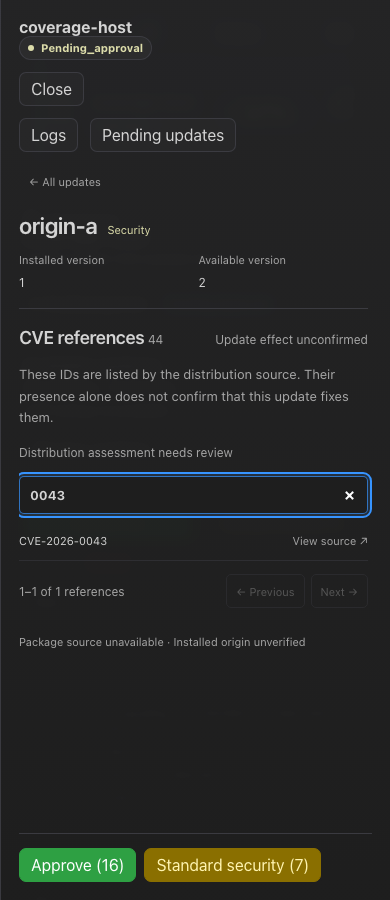
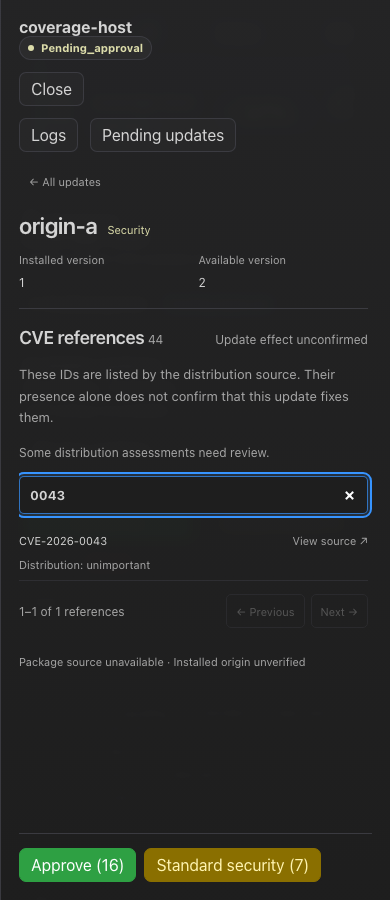
Keep mixed CVE qualifications concise and preserve live scroll

diff --git a/static/js/pending-updates-view.js b/static/js/pending-updates-view.js
@@ -52,6 +52,7 @@
         const url = String(finding.advisory_url || '').trim();
         return `<section class="pending-cve-evidence" id="pending-cve-evidence" aria-label="CVE source evidence">
             <div class="pending-workspace-head"><h5>${escape(finding.id || 'Unknown CVE')}</h5>${button('evidence', finding.id, 'Close source')}</div>
+            <p>${escape(qualification(finding))}</p>
             <p>${escape(assessment.vendor_reason || 'Distribution assessment unavailable')}</p>
             <dl><div><dt>Assessed versions</dt><dd>${escape(finding.installed_version || "Unknown")} → ${escape(finding.candidate_version || "Unknown")}</dd></div><div><dt>Source</dt><dd>${escape(assessment.ecosystem || 'Unknown distribution')} / ${escape(assessment.source_package || finding.source_package || 'Unknown package')} · ${escape(finding.source || 'Distribution data')}</dd></div>
             <div><dt>Observed</dt><dd>${escape(assessment.observed_at || 'Unknown')}</dd></div></dl>
@@ -62,6 +63,9 @@
         const findings = view.allFindings;
         const groups = [...new Set(findings.map(disposition))];
         const qualifications = [...new Set(findings.map(qualification))];
+        const reviewQualification = 'Distribution assessment needs review';
+        const sharedQualification = qualifications.length === 1 ? qualifications[0]
+            : qualifications.includes(reviewQualification) ? 'Some distribution assessments need review.' : '';
         const unknown = groups.length === 1 && groups[0] === 'Correction could not be verified';
         const state = String(update.cve_state || 'unknown');
         const context = state === 'pending' ? 'CVE lookup in progress.' : state === 'unavailable' ? 'CVE lookup unavailable. Run a fresh update check to retry.'
@@ -74,14 +78,14 @@
         return `${button('back', view.selectedKey, '← All updates')}
             <div class="pending-package-heading"><h4 tabindex="-1" data-pending-heading>${escape(update.package || 'Unknown package')}</h4><div class="pending-kinds">${badges(update)}</div></div>
             <dl class="pending-version-pair"><div><dt>Installed version</dt><dd>${escape(update.current_version || 'Unknown')}</dd></div><div><dt>Available version</dt><dd>${escape(update.candidate_version || 'Unknown')}</dd></div></dl>
-            <div class="pending-workspace-head"><h4>CVE references <span>${findings.length}</span></h4>${findings.length ? `<span>${unknown ? 'Update effect unconfirmed' : 'Source comparison'}</span>` : ''}</div>
+            <div class="pending-workspace-head"><h4>${findings.length ? `CVE references <span>${findings.length}</span>` : 'CVE information'}</h4>${findings.length ? `<span>${unknown ? 'Update effect unconfirmed' : 'Source comparison'}</span>` : ''}</div>
             <p class="${state === 'unavailable' ? 'pending-lookup-error' : 'pending-note'}">${context}</p>
-            ${qualifications.length === 1 ? `<p class="pending-qualification">${escape(qualifications[0])}</p>` : ''}
+            ${sharedQualification ? `<p class="pending-qualification">${escape(sharedQualification)}</p>` : ''}
             ${findings.length ? `${search('pending-cve-search', 'Find a CVE', view.cveQuery, 'cve-search')}<div class="pending-cve-list">
                 ${view.findings.items.map(finding => `<div class="pending-cve-item ${finding.disposition === 'still_affected' ? 'pending-cve-reported' : ''}">
                     ${button('evidence', finding.id, `<span>${escape(finding.id || 'Unknown CVE')}</span><span>View source ↗</span>`, `aria-expanded="${view.evidenceID === String(finding.id || '')}" ${view.evidenceID === String(finding.id || '') ? 'aria-controls="pending-cve-evidence"' : ''}`)}
                     ${!unknown ? `<small>${escape(disposition(finding))}</small>` : ''}
-                    ${qualifications.length !== 1 ? `<small>${escape(qualification(finding))}</small>` : ''}</div>`).join('')}</div>
+                    ${qualifications.length !== 1 && qualification(finding) !== reviewQualification ? `<small>${escape(qualification(finding))}</small>` : ''}</div>`).join('')}</div>
                 ${!view.findings.total ? '<p class="drawer-empty">No matching CVE references.</p>' : ''}${pagination(view.findings, 'cve-page', 'References')}` : ''}
             ${view.evidence ? evidence(view.evidence) : ''}
             <div class="pending-source-context">${escape(update.source || 'Package source unavailable')}${update.cve_coverage === 'official_installed_unverified' ? ' · Installed origin unverified' : ''}

diff --git a/static/js/index.js b/static/js/index.js
@@ -2039,7 +2039,9 @@
             }
 
             if (drawerState.tab === "pending") {
-                const pendingScrollTop = drawerPendingScrollTop;
+                const samePendingServer = pendingPanel.dataset.serverName === server.name;
+                const pendingScrollTop = samePendingServer
+                    ? (pendingPanel.childElementCount ? pendingPanel.scrollTop : drawerPendingScrollTop) : 0;
                 const focusedInput = pendingPanel.contains(document.activeElement) && document.activeElement.matches("input[data-pending-input]")
                     ? { id: document.activeElement.id, start: document.activeElement.selectionStart, end: document.activeElement.selectionEnd } : null;
                 pendingPanel.innerHTML = renderPendingUpdatesHtml(server);
@@ -2048,16 +2050,10 @@
                     input?.focus({ preventScroll: true });
                     if (input && focusedInput.start !== null) input.setSelectionRange(focusedInput.start, focusedInput.end);
                 }
-                lifecycle.requestAnimationFrame(() => {
-                    const maxScrollTop = Math.max(
-                        0,
-                        pendingPanel.scrollHeight - pendingPanel.clientHeight,
-                    );
-                    pendingPanel.scrollTop = Math.min(
-                        pendingScrollTop,
-                        maxScrollTop,
-                    );
-                });
+                // Restore before another refresh can observe the replacement at scrollTop 0.
+                pendingPanel.dataset.serverName = server.name;
+                pendingPanel.scrollTop = Math.min(pendingScrollTop, Math.max(0, pendingPanel.scrollHeight - pendingPanel.clientHeight));
+                drawerPendingScrollTop = pendingPanel.scrollTop;
             } else {
                 pendingPanel.innerHTML = "";
             }
@@ -3284,7 +3280,10 @@
             }
         });
         function handlePendingIntent(action, value) {
-            if (!["evidence", "cve-search", "search"].includes(action)) drawerPendingScrollTop = 0;
+            if (!["evidence", "cve-search", "search"].includes(action)) {
+                drawerPendingScrollTop = 0;
+                drawerPendingElement.scrollTop = 0;
+            }
             dispatchStatusInteraction({ type: "pendingUpdatesChanged", intent: { action, value } });
         }
         lifecycle.listen(drawerPendingElement, "input", (event) => {

diff --git a/templates/index.html b/templates/index.html
@@ -6,8 +6,8 @@
     <title>SimpleLinuxUpdater</title>
     <link rel="icon" type="image/png" href="/static/logo.png">
     <link rel="stylesheet" href="/static/css/base.css?v=metadata-contrast-517-20261029">
-    <link rel="stylesheet" href="/static/css/pending-updates.css?v=compact-cve-20261103">
-    <link rel="stylesheet" href="/static/css/index.css?v=compact-cve-20261103">
+    <link rel="stylesheet" href="/static/css/pending-updates.css?v=compact-cve-20261103b">
+    <link rel="stylesheet" href="/static/css/index.css?v=compact-cve-20261103b">
     <link rel="stylesheet" href="/static/css/status-polish.css?v=20260919">
 <link rel="stylesheet" href="/static/css/package-deferrals.css?v=ui-components-515-20261029">
 </head>
@@ -411,9 +411,9 @@
     <script src="/static/js/common.js?v=quality-pass-20260711a"></script>
     <div class="phase-tooltip hidden" id="phase-tooltip" role="tooltip"></div>
     <script src="/static/js/dashboard-projection-consumption.js?v=apt-update-cve-scope-20261103"></script>
-    <script src="/static/js/pending-updates-interaction.js?v=compact-cve-20261103"></script>
-    <script src="/static/js/pending-updates-view.js?v=compact-cve-20261103"></script>
-    <script src="/static/js/status-page-interaction.js?v=compact-cve-20261103"></script>
+    <script src="/static/js/pending-updates-interaction.js?v=compact-cve-20261103b"></script>
+    <script src="/static/js/pending-updates-view.js?v=compact-cve-20261103b"></script>
+    <script src="/static/js/status-page-interaction.js?v=compact-cve-20261103b"></script>
     <script src="/static/js/status-formatting.js?v=job-log-stream-20260724"></script>
     <script src="/static/js/status-transport.js?v=frontend-isolation-20261027"></script>
     <script src="/static/js/status-rendering.js?v=apt-update-cve-scope-20261103"></script>
@@ -423,6 +423,6 @@
     <script src="/static/js/index-bulk-actions.js?v=frontend-isolation-20261027"></script>
     <script src="/static/js/package-deferrals.js?v=frontend-isolation-20261027"></script>
 <script src="/static/js/status-snapshot-adapter.js?v=frontend-isolation-20261027"></script>
-<script src="/static/js/index.js?v=compact-cve-20261103"></script>
+<script src="/static/js/index.js?v=compact-cve-20261103b"></script>
 </body>
 </html>

diff --git a/tests/e2e/update-cve-provenance.spec.js b/tests/e2e/update-cve-provenance.spec.js
@@ -5,7 +5,7 @@ const originExplanation='OSV results use official distribution data, but APT no 
 for(const width of [1440,390]) {
     test(`compact package and CVE inspection stays stable and read-only at ${width}px`,async({page},testInfo)=>{
         await page.setViewportSize({width,height:900});
-        const findings=Array.from({length:44},(_,i)=>({id:`CVE-2026-${String(i).padStart(4,'0')}`,disposition:'unknown',installed_version:'1',candidate_version:'2',assessment:{vendor_reason:'Synthetic source evidence',observed_at:'2026-11-03T10:00:00Z'}}));
+        const findings=Array.from({length:44},(_,i)=>({id:`CVE-2026-${String(i).padStart(4,'0')}`,disposition:'unknown',installed_version:'1',candidate_version:'2',assessment:{vendor_reason:'Synthetic source evidence',observed_at:'2026-11-03T10:00:00Z',...(i===43?{vendor_status:'unimportant'}:{})}}));
         let server=makeServer('coverage-host','pending_approval',[
             update('origin-a',{security:true,cve_coverage:'official_installed_unverified',cve_findings:findings}),
             update('origin-b',{cve_coverage:'official_installed_unverified'}),
@@ -28,7 +28,8 @@ for(const width of [1440,390]) {
         await panel.getByRole('button',{name:'← All updates',exact:true}).click();
         await panel.getByRole('button',{name:'Details for origin-a',exact:true}).click();
         await expect(panel.getByRole('button',{name:/^CVE-2026-/})).toHaveCount(5);
-        await expect(panel.getByText('Distribution assessment needs review',{exact:true})).toHaveCount(1);
+        await expect(panel.getByText('Some distribution assessments need review.',{exact:true})).toHaveCount(1);
+        await expect(panel.getByText('Distribution assessment needs review',{exact:true})).toHaveCount(0);
         await panel.getByRole('button',{name:'CVE-2026-0000 View source ↗',exact:true}).click();
         await expect(panel.getByRole('region',{name:'CVE source evidence'})).toContainText('Synthetic source evidence');
         await panel.getByRole('button',{name:'CVE-2026-0001 View source ↗',exact:true}).click();

diff --git a/tests/unit/pending-updates.test.js b/tests/unit/pending-updates.test.js
@@ -93,3 +93,18 @@ test('Status owns inspection intent, requests an immediate drawer render, and ex
     assert.equal(store.getView().pendingUpdates.selected.candidate_version,'2');
     assert.equal(store.getView().pendingUpdates.mode,'package');
 });
+
+
+test('mixed vendor qualifications do not repeat the generic review message per reference',()=>{
+    const store=createStore(), pkg=update('mixed',{cve_findings:findings(44)}), server=host([pkg]);
+    pkg.cve_findings[43].assessment={vendor_status:'unimportant'};
+    store.dispatch({action:'package',value:packageKey(pkg)},server);
+    let html=render(store.view(server));
+    assert.ok(html.includes('Some distribution assessments need review.'));
+    assert.equal((html.match(/Distribution assessment needs review/g)||[]).length,0);
+    store.dispatch({action:'evidence',value:pkg.cve_findings[0].id},server);
+    html=render(store.view(server));
+    assert.equal((html.match(/Distribution assessment needs review/g)||[]).length,1);
+    store.dispatch({action:'cve-search',value:'0043'},server);
+    assert.ok(render(store.view(server)).includes('Distribution: unimportant'));
+});
